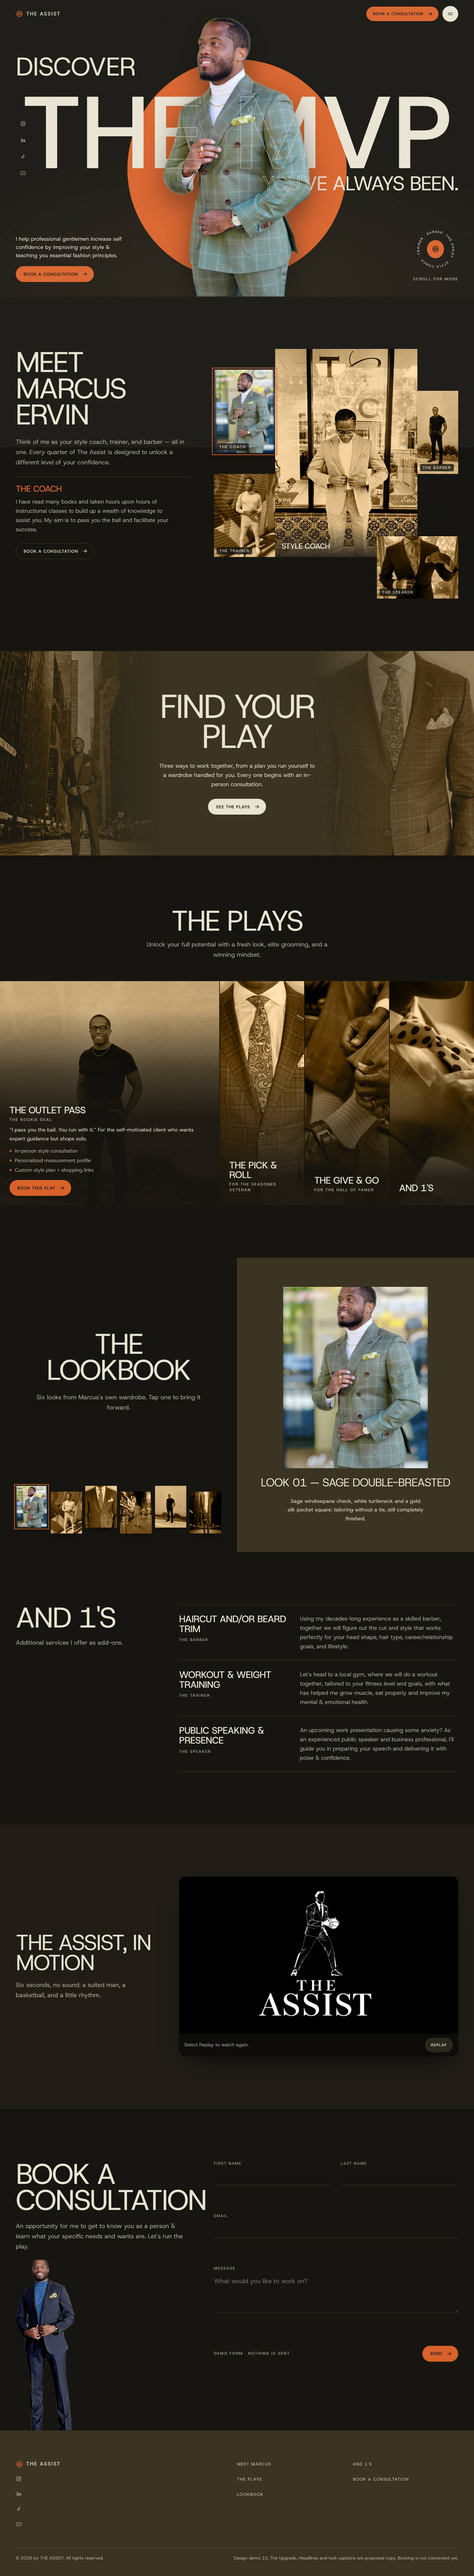
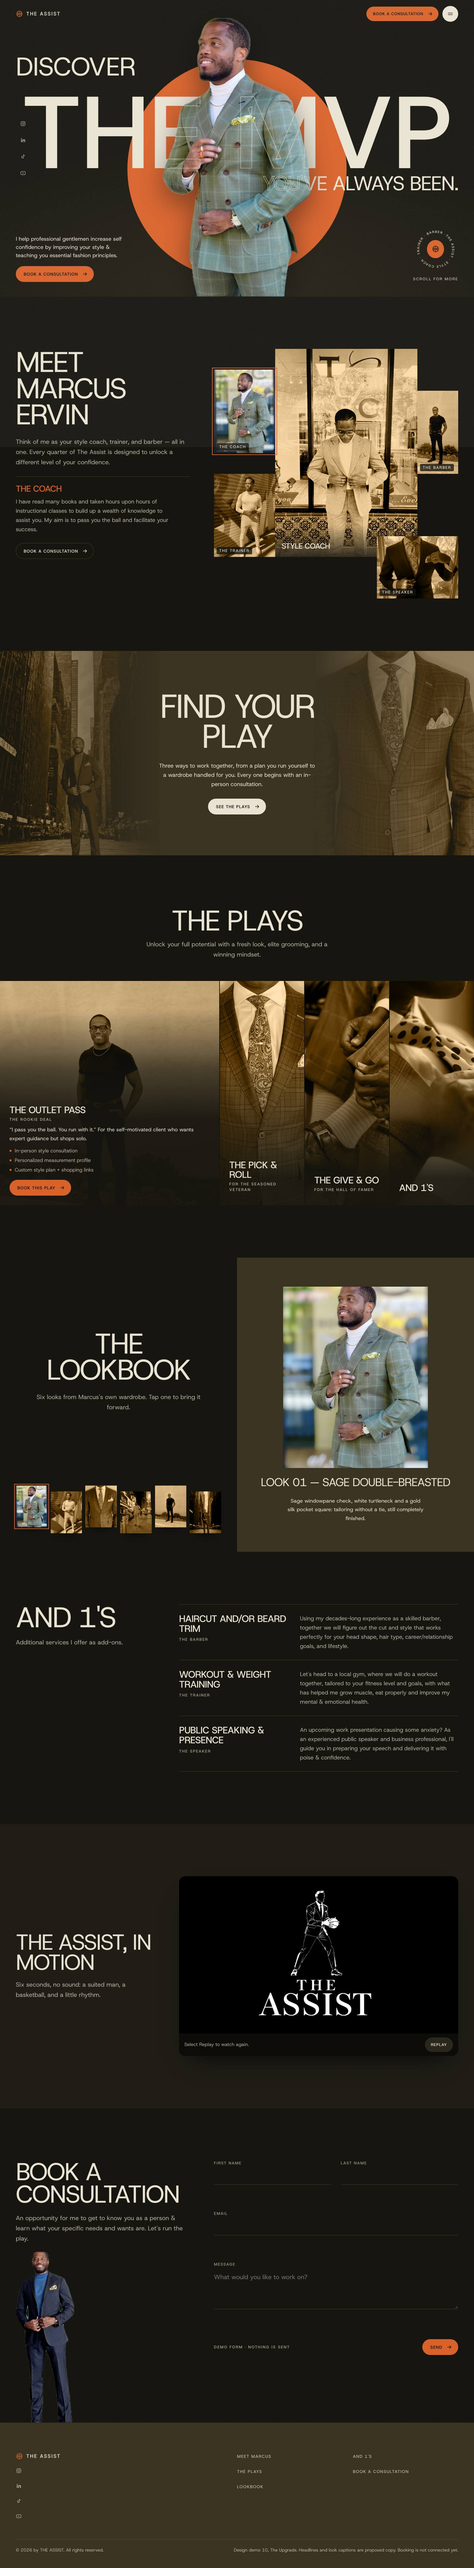
The Assist: stop the booking heading running into the form
On demos 09 and 10, "Book a consultation" now scales with its own
column instead of the viewport. It no longer overflows into the form
(10, from 1180px wide) or the coupon divider (09, from 1600px).

diff --git a/the-assist/concepts/09-cover-story.html b/the-assist/concepts/09-cover-story.html
@@ -200,9 +200,9 @@ a{color:inherit}
 .subscribe{background:var(--khaki);padding:clamp(56px,7vw,104px) 0;border-top:1px solid var(--ink)}
 .coupon{position:relative;max-width:1080px;margin:0 auto;background:var(--paper);border:2px dashed var(--ink);display:grid;grid-template-columns:minmax(0,5fr) minmax(0,7fr)}
 .coupon__cut{position:absolute;left:28px;top:-14px;background:var(--khaki);padding:0 10px;font:700 12px var(--sans);letter-spacing:.14em;text-transform:uppercase}
-.coupon__offer{padding:clamp(28px,4vw,52px);border-right:2px dashed var(--ink);display:flex;flex-direction:column;gap:16px}
+.coupon__offer{padding:clamp(28px,4vw,52px);border-right:2px dashed var(--ink);display:flex;flex-direction:column;gap:16px;container-type:inline-size}
 .coupon__offer .caps{color:var(--olive-ink)}
-.coupon__offer h2{font:400 clamp(40px,3.9vw,64px)/.92 var(--didone);margin:0;letter-spacing:-.02em}
+.coupon__offer h2{font:400 min(16cqi,64px)/.92 var(--didone);margin:0;letter-spacing:-.02em}
 .coupon__offer p{margin:0;color:var(--ink-2)}
 .coupon__offer ul{list-style:none;margin:6px 0 0;padding:0;display:grid;gap:8px;font-size:16px}
 .coupon__offer li{display:flex;gap:10px}

diff --git a/the-assist/concepts/10-upgrade.html b/the-assist/concepts/10-upgrade.html
@@ -219,7 +219,9 @@ body::after{content:"";position:fixed;inset:-50%;pointer-events:none;z-index:150
 
 /* consultation */
 .book{display:grid;grid-template-columns:minmax(0,5fr) minmax(0,7fr);gap:clamp(32px,5vw,96px);align-items:start}
-.book__aside{position:relative;display:flex;flex-direction:column;gap:24px}
+.book__aside{position:relative;display:flex;flex-direction:column;gap:24px;container-type:inline-size}
+/* the heading scales with its column so "CONSULTATION" never runs into the form */
+#book-title{font-size:min(14cqi,96px)}
 #consultation{padding-bottom:0}
 .book{align-items:stretch}
 .book__aside img{width:auto;height:clamp(360px,36vw,560px);margin-top:auto;align-self:flex-start}
